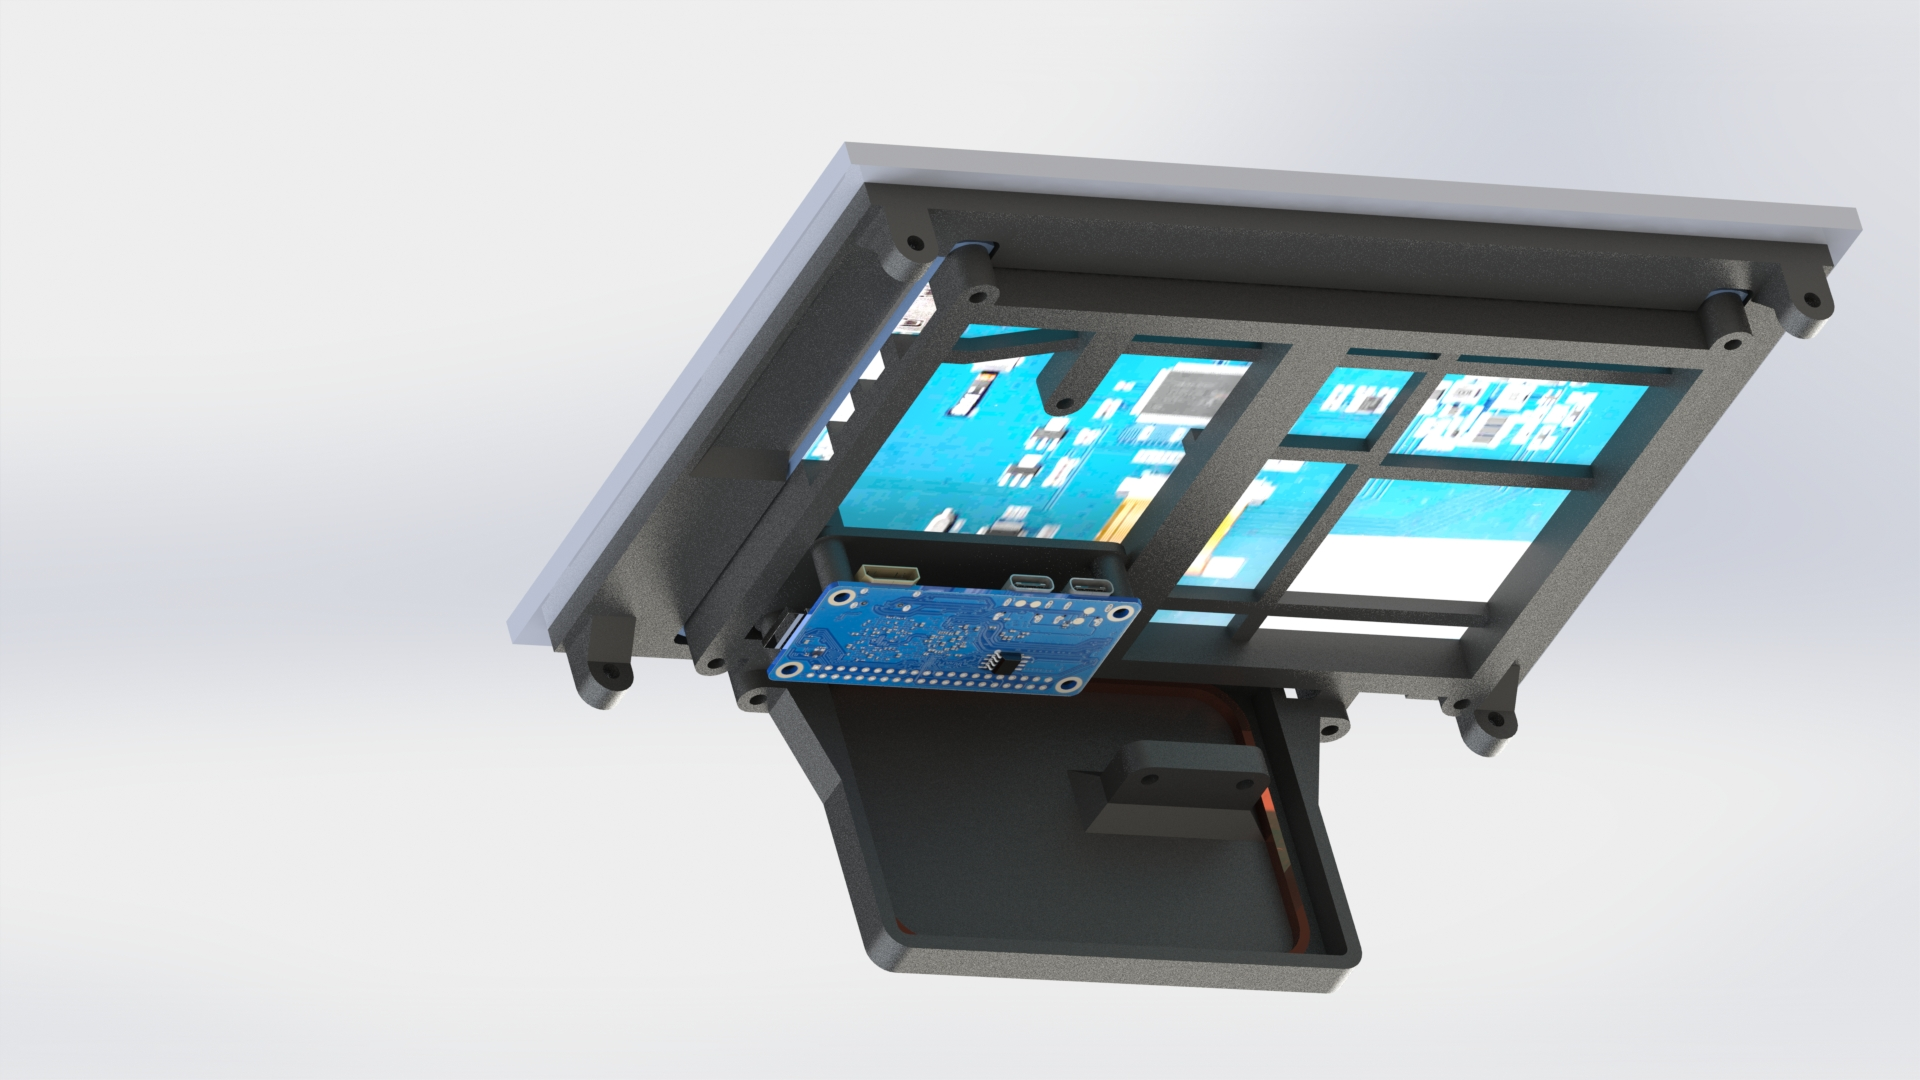
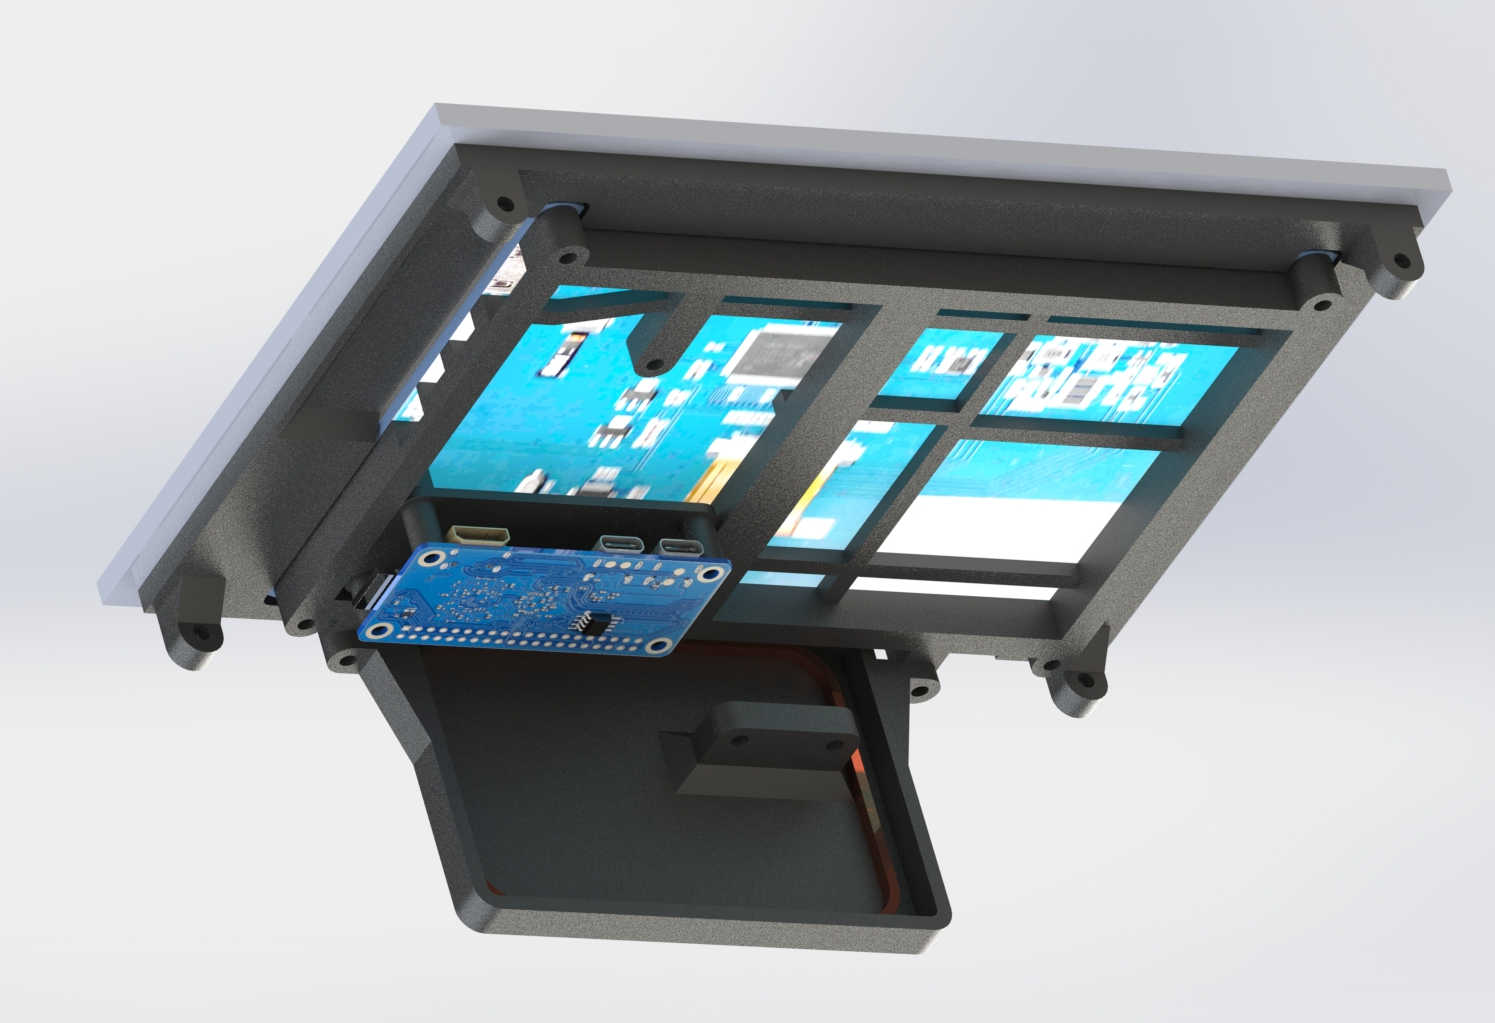
reduce image size

diff --git a/README.md b/README.md
@@ -1,3 +1,10 @@
 # MarcoX
 
-## 
+![Full](https://github.com/AntoninPvr/MarcoX/blob/main/render/full.JPG?raw=true)
+
+
+![Frame_bellow](https://github.com/AntoninPvr/MarcoX/blob/main/render/frame_bellow.JPG?raw=true)
+
+## Enclosure
+
+![Enclosure](https://github.com/AntoninPvr/MarcoX/blob/main/render/enclosure.JPG?raw=true)
